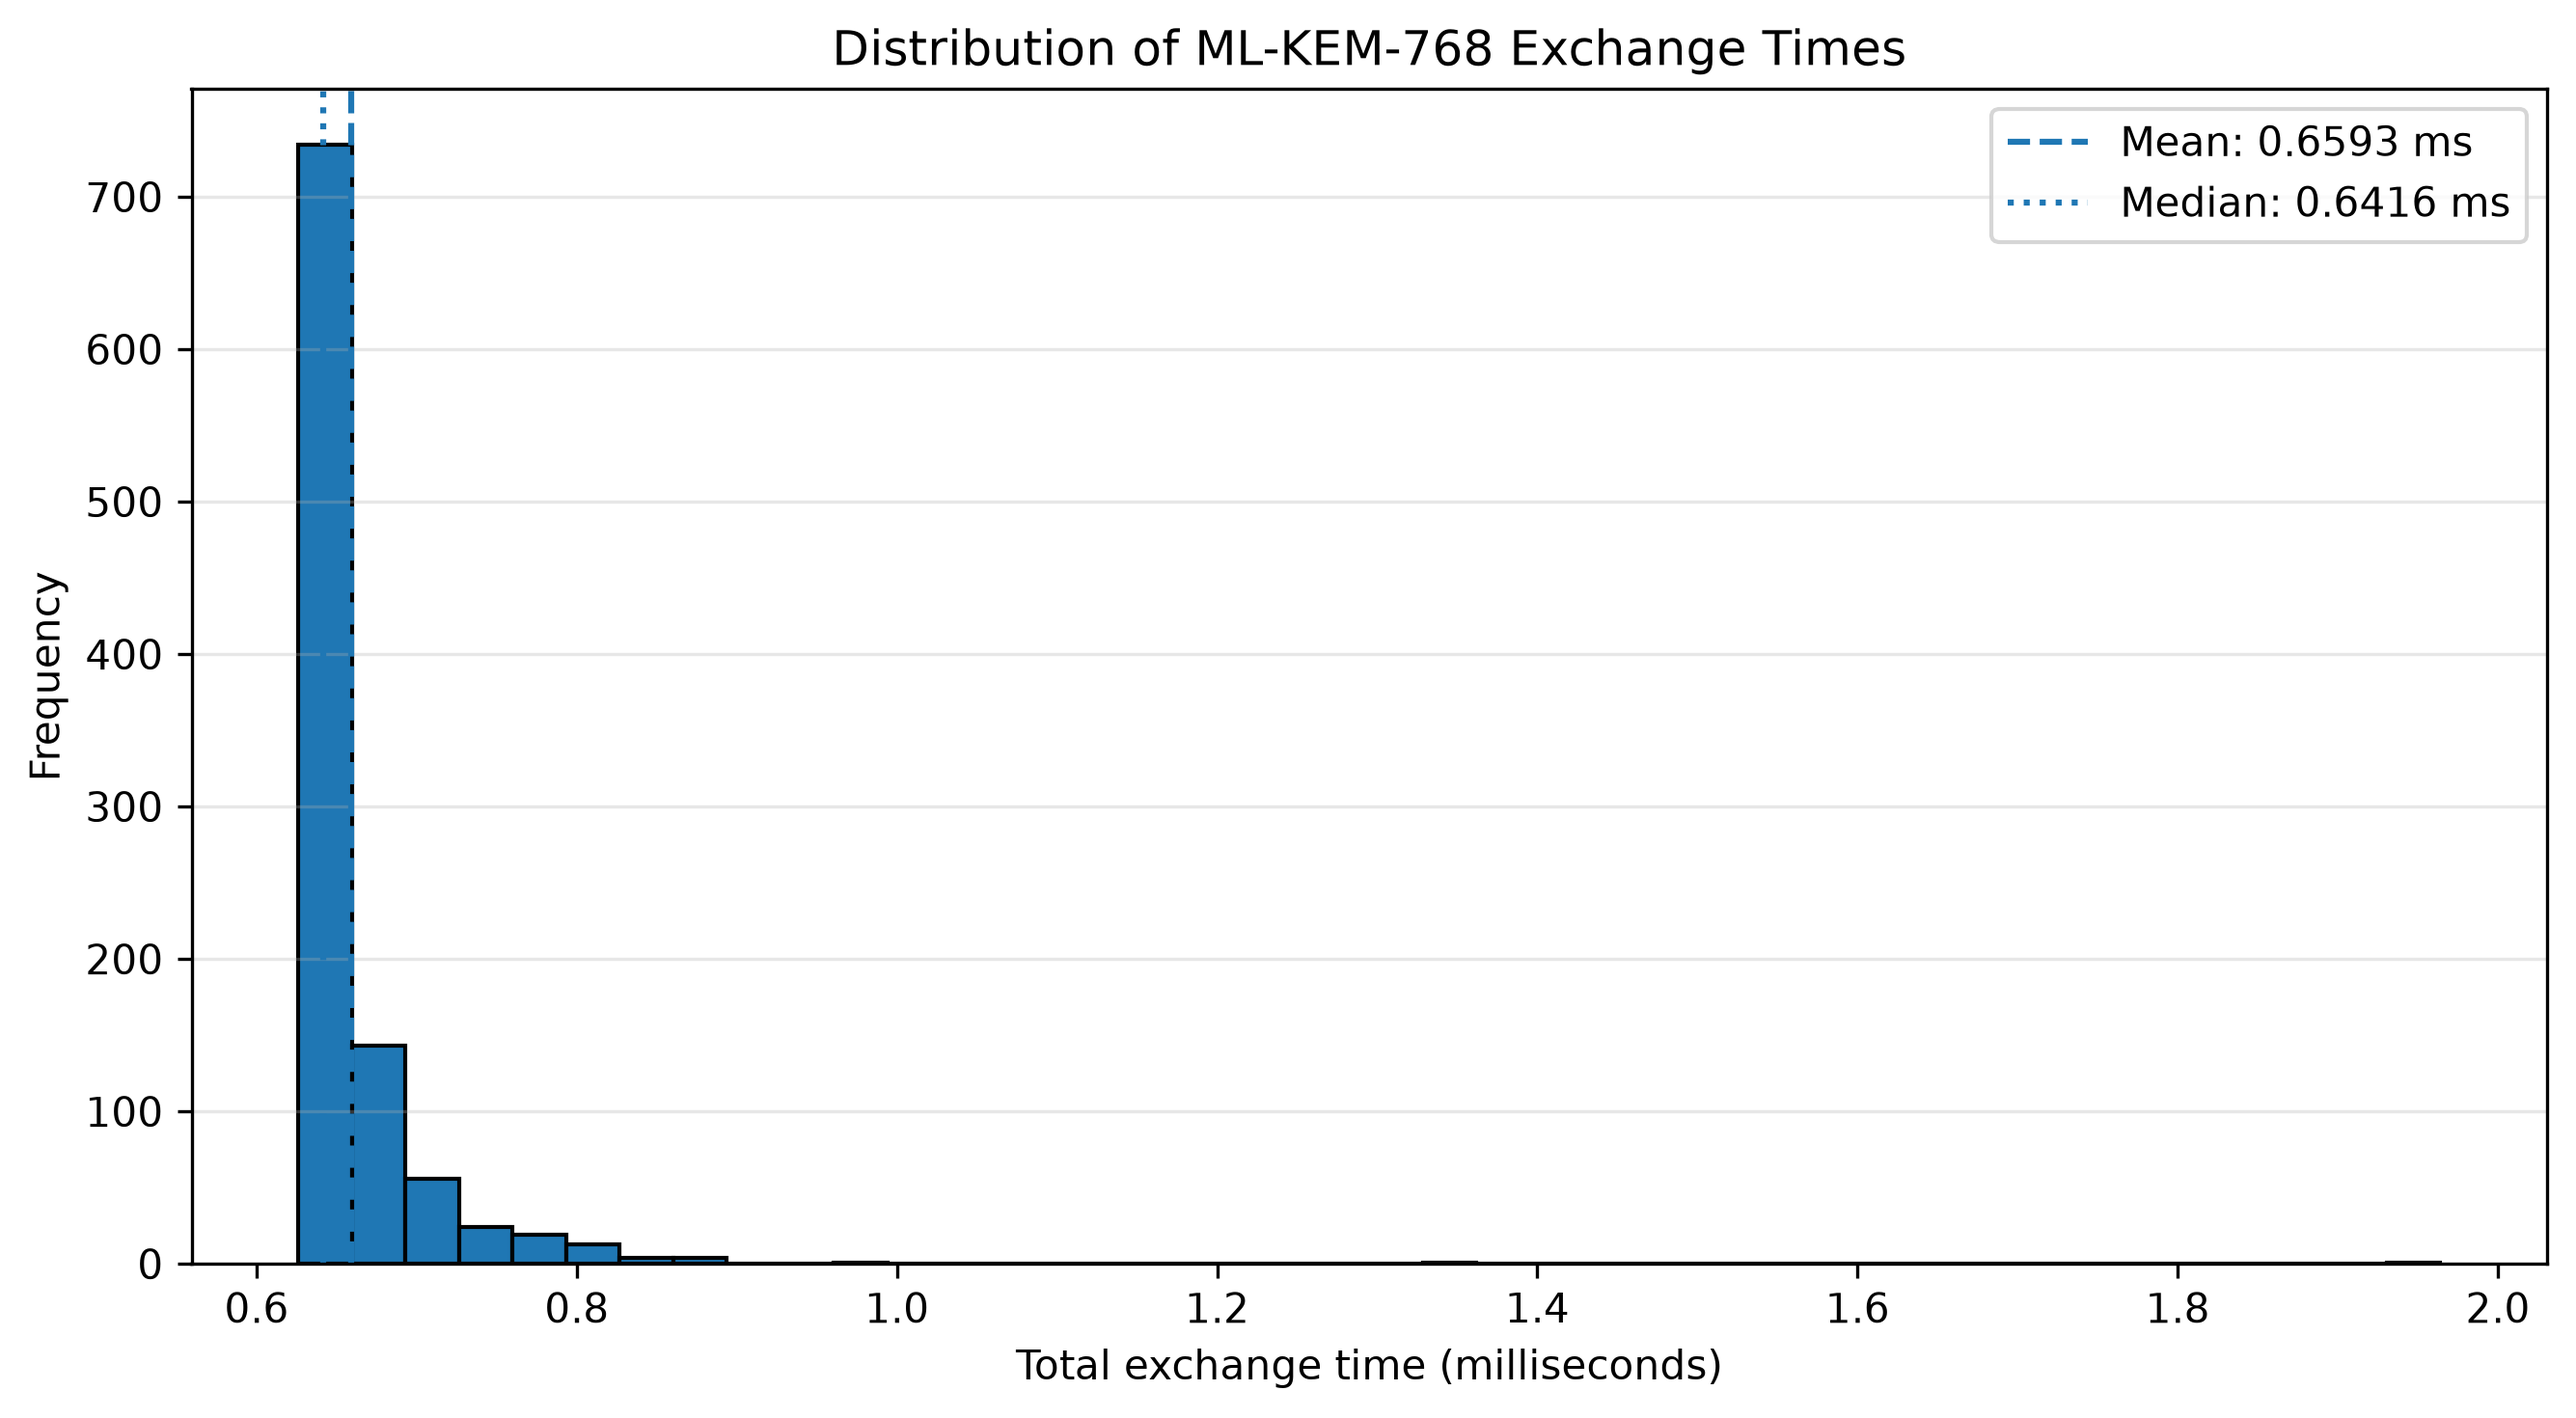
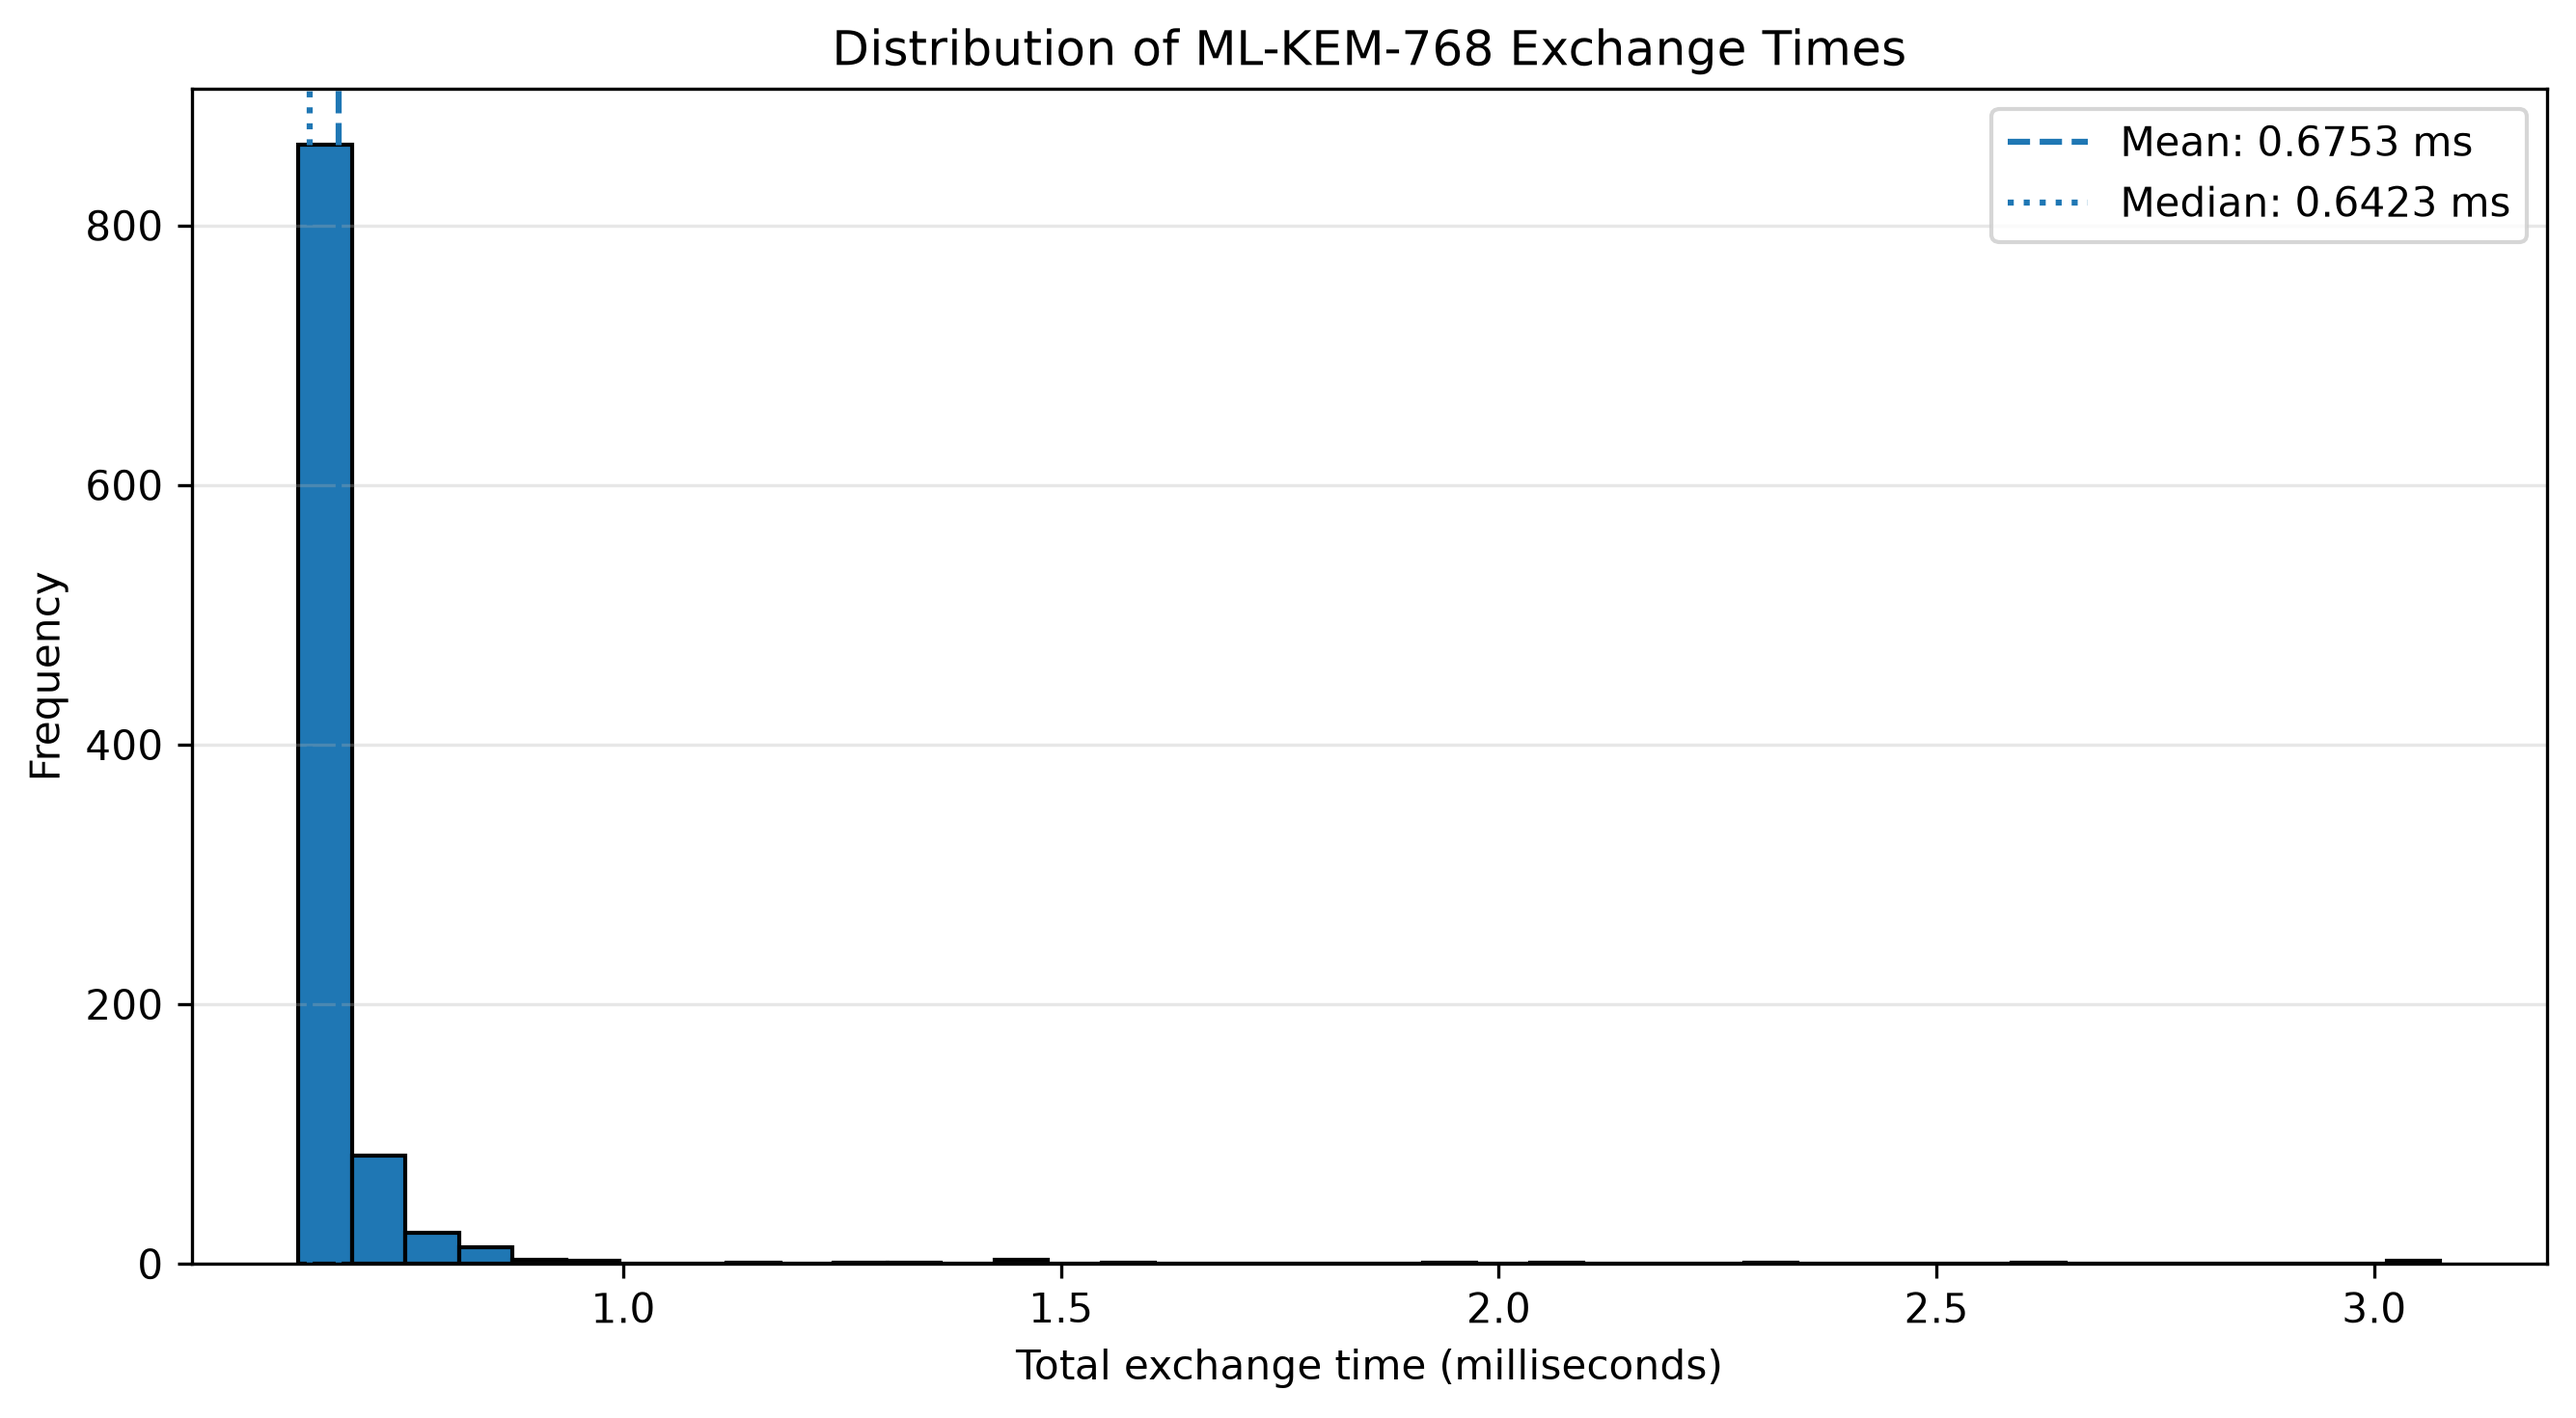
Improve project documentation and benchmarking framework

diff --git a/src/graphs.py b/src/graphs.py
@@ -7,8 +7,8 @@ import pandas as pd
 RESULTS_DIRECTORY = Path("results")
 PLOTS_DIRECTORY = RESULTS_DIRECTORY / "plots"
 
-RAW_RESULTS_PATH = RESULTS_DIRECTORY / "mlkem_raw_results.csv"
-SUMMARY_PATH = RESULTS_DIRECTORY / "mlkem_summary.csv"
+RAW_RESULTS_PATH = RESULTS_DIRECTORY / "ml_kem_768_raw_results.csv"
+SUMMARY_PATH = RESULTS_DIRECTORY / "ml_kem_768_summary.csv"
 
 
 DISPLAY_NAMES = {

diff --git a/README.md b/README.md
@@ -1,28 +1,105 @@
 # Post-Quantum Cryptography Benchmark
+Benchmarking classical and post-quantum key establishment algorithms using a modular and reproducible evaluation framework.
 
-Implementation and performance evaluation of ML-KEM (FIPS 203) compared with classical public-key algorithms.
+A modular benchmarking framework for evaluating the performance of classical and post-quantum key establishment algorithms using reproducible statistical measurements.
 
-## Project Structure
+This project was developed as part of an Applied Cryptography course to evaluate the performance characteristics of NIST standardized ML-KEM alongside classical key exchange algorithms.
+
+---
+
+## Project Goals
+
+- Benchmark Post-Quantum Cryptography (ML-KEM-768)
+- Compare ML-KEM against RSA and ECDH
+- Measure execution time
+- Measure key and ciphertext sizes
+- Produce reproducible benchmark results
+- Automatically generate visualizations
+
+---
+
+## Technologies
+
+- Python 3.12
+- ML-KEM (FIPS 203)
+- mlkem Python library
+- pandas
+- matplotlib
+- NumPy
+
+---
+
+## Current Status
+
+| Algorithm | Status |
+|-----------|--------|
+| ML-KEM-768 | ✅ Complete |
+| RSA | ⏳ Pending |
+| ECDH | ⏳ Pending |
+
+---
+
+## Repository Structure
 
 ```
 post-quantum-cryptography/
-
-src/
-    mlkem_demo.py
-    benchmark.py
-    graphs.py
-    config.py
-
-results/
-    plots/
-
-README.md
-requirements.txt
+│
+├── docs/
+│   └── benchmark_methodology.md
+│
+├── results/
+│   ├── plots/
+│   └── *.csv
+│
+├── src/
+│   ├── algorithms.py
+│   ├── benchmark.py
+│   ├── config.py
+│   ├── graphs.py
+│   ├── mlkem_demo.py
+│   └── validation.py
+│
+├── README.md
+├── requirements.txt
+└── .gitignore
 ```
 
-## Requirements
+---
 
-Python 3.12+
+## Features
+
+- Modular benchmarking framework
+- Automatic benchmark validation
+- Statistical analysis
+- CSV export
+- Automatic graph generation
+- Extensible architecture for additional algorithms
+
+---
+
+
+## Installation
+
+Clone the repository:
+
+```bash
+git clone <repository-url>
+cd post-quantum-cryptography
+```
+
+Create a virtual environment:
+
+```bash
+python -m venv .venv
+```
+
+Activate it:
+
+macOS/Linux
+
+```bash
+source .venv/bin/activate
+```
 
 Install dependencies:
 
@@ -30,17 +107,23 @@ Install dependencies:
 pip install -r requirements.txt
 ```
 
-## Running ML-KEM Demo
+---
 
-```bash
-python src/mlkem_demo.py
-```
-
-## Running Benchmark
+## Running the Benchmark
 
 ```bash
 python src/benchmark.py
 ```
+
+The benchmark generates:
+
+- Raw benchmark data
+- Statistical summaries
+- Combined benchmark summary
+
+inside the `results/` directory.
+
+---
 
 ## Generating Graphs
 
@@ -48,12 +131,91 @@ python src/benchmark.py
 python src/graphs.py
 ```
 
-## Algorithms
+The generated plots are saved to:
 
-- ML-KEM-768 (Implemented)
-- RSA (Pending)
-- ECDH (Pending)
+```
+results/plots/
+```
 
-## Notes
+---
 
-This project uses the Python implementation of the `mlkem` package implementing the NIST FIPS-203 ML-KEM standard.
+## Current ML-KEM Implementation
+
+Implemented features:
+
+- ML-KEM-768 key generation
+- Encapsulation
+- Decapsulation
+- Shared secret verification
+- Automatic benchmarking
+- CSV export
+- Statistical analysis
+- Graph generation
+- Benchmark validation
+
+---
+
+## Preliminary Results
+
+Current benchmark results (Apple Silicon):
+
+| Metric | Average |
+|--------|---------:|
+| Key Generation | ~0.21 ms |
+| Encapsulation | ~0.31 ms |
+| Decapsulation | ~0.37 ms |
+| Total Exchange | ~0.68 ms |
+
+Measured using 1000 benchmark iterations.
+
+---
+
+## Benchmark Methodology
+
+Benchmark methodology is documented in:
+
+```
+docs/benchmark_methodology.md
+```
+
+The benchmark performs:
+
+- 50 warm-up iterations
+- 1000 measured iterations
+
+Statistics include:
+
+- Mean
+- Median
+- Standard deviation
+- Minimum
+- Maximum
+
+---
+
+## Future Work
+
+- Implement RSA benchmarking
+- Implement ECDH benchmarking
+- Generate comparative performance graphs
+- Perform statistical comparison
+- Write final performance analysis
+
+---
+
+## References
+
+- NIST FIPS 203 - Module-Lattice-Based Key-Encapsulation Mechanism (ML-KEM)
+- NIST Post-Quantum Cryptography Standardization Project
+
+---
+
+## Acknowledgements
+
+This project was developed for the Applied Cryptography course and follows the NIST Post-Quantum Cryptography standardization effort.
+
+---
+
+## License
+
+This repository is intended for educational and research purposes.
